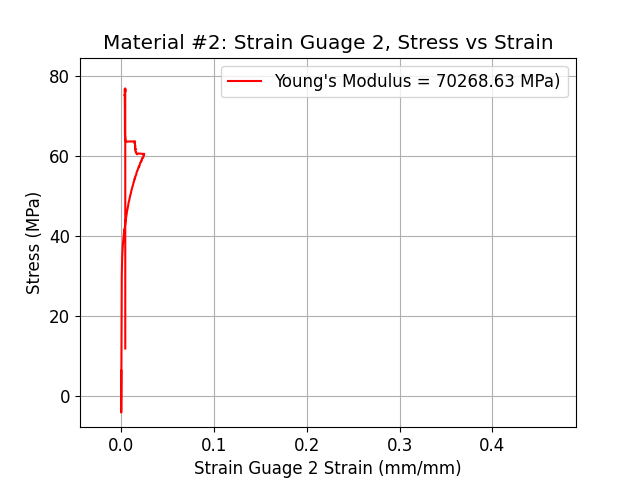
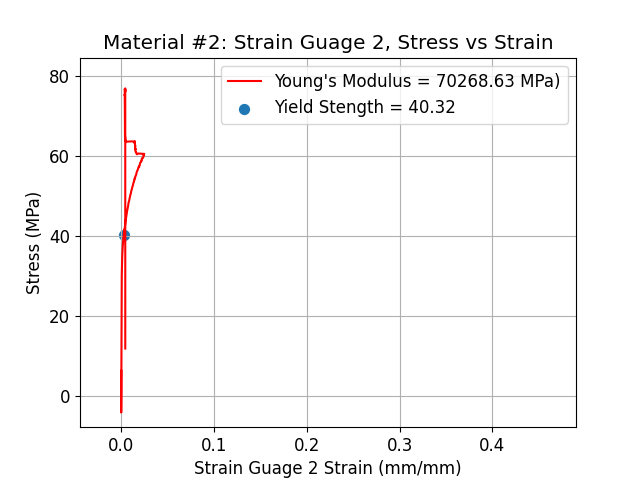
Added yield strength functionality

Changed region(s): [[0.4062, 0.1875, 0.7188, 0.25], [0.375, 0.2188, 0.4062, 0.25], [0.1875, 0.4688, 0.2188, 0.5]]

diff --git a/src/analysis.py b/src/analysis.py
@@ -78,7 +78,7 @@ def ModulusProcess(data: pd.DataFrame, test_num: np.int8):
     
     return modulus
 
-def YieldProcess(data: pd.DataFrame, test_num: np.int8, modulus: np.float64):
+def YieldProcess(data: pd.DataFrame, test_num: np.int8, modulus: np.array):
     '''
     Calculate the young's modulus of the sample.
 
@@ -88,21 +88,38 @@ def YieldProcess(data: pd.DataFrame, test_num: np.int8, modulus: np.float64):
         data from sensors
     test_num : np.int
         sample number
+    modulus : np.array
+        elastic modulus of the sample
 
     Returns:
     -----------   
-    modulus : np.int
-        elastic modulus for that sample
+    yield_strength : np.array
+        yield strenngth location and value for that sample
     '''
-    end_indices = [600, 70, 250, 550, 500] # region within which each graph is linear, determined observationally
+    end_indices = [675, 200, 500, 625, 600] # region within which each graph is linear, determined observationally
     
     end_ind = end_indices[test_num-1]
 
-    # print(data[['MTS_stress', 'Laser']][0:end_ind])
+    mod = modulus[0 if (test_num == 3) else 1]
+    strain_guage = data['Strain Guage 2'][0:end_ind]
+    strain_laser = data['Laser'][0:end_ind]
+    stress_measured = data['MTS_stress'][0:end_ind]
+    stress_offset_guage = [x*mod - mod*0.002 for x in strain_guage]
+    stress_offset_laser = [x*mod - mod*0.002 for x in strain_laser]
 
     if test_num == 3:
-        modulus, intercept = np.polyfit(data['Laser'][0:end_ind], data.MTS_stress[0:end_ind], deg=1)
+        plt.plot(strain_laser, stress_measured)
+        plt.plot(strain_laser, stress_offset_laser)
+
+        diff = abs(stress_measured - stress_offset_laser)
+        intersect_ind = list(diff).index(min(diff))
+        yield_strength = [strain_laser[intersect_ind], stress_measured[intersect_ind]]
     else:
-        modulus, intercept = np.polyfit(data['Strain Guage 2'][0:end_ind], data.MTS_stress[0:end_ind], deg=1)
+        plt.plot(strain_guage, stress_measured)
+        plt.plot(strain_guage, stress_offset_guage)
+
+        diff = abs(stress_measured - stress_offset_guage)
+        intersect_ind = list(diff).index(min(diff))
+        yield_strength = [strain_guage[intersect_ind], stress_measured[intersect_ind]]
     
-    return modulus
+    return yield_strength

diff --git a/src/graphing.py b/src/graphing.py
@@ -12,7 +12,7 @@ import pandas as pd
 import os
 
 
-def StrainGraph(data: pd.DataFrame, test_num: np.int8, sensor: np.array, modulus : np.float64, save: bool):
+def StrainGraph(data: pd.DataFrame, test_num: np.int8, sensor: np.array, modulus : np.array, yield_strength : np.array, save: bool):
     '''
     PLots the strain graphs.
 
@@ -26,6 +26,8 @@ def StrainGraph(data: pd.DataFrame, test_num: np.int8, sensor: np.array, modulus
         which sensors a plot must be made for
     modulus : np.float64
         elastic modulus of that material
+    yield_strength : np.array
+        yield strenngth location and value for that sample
     save : bool
         save graphs or not
     '''
@@ -43,18 +45,21 @@ def StrainGraph(data: pd.DataFrame, test_num: np.int8, sensor: np.array, modulus
     for s in sensor:
         print(" Generating " + str(s) + " strain plot..")
         plt.plot(data[s][0:end_ind], data.MTS_stress[0:end_ind], color = 'r')
+        if s in ['Laser', 'Strain Guage 2']:
+            plt.scatter(yield_strength[0], yield_strength[1], s=50)
+            mod = modulus[0 if (s == 'Laser') else 1]
+            plt.legend([f'Young\'s Modulus = {round(mod, 2)} MPa)', f'Yield Stength = {round(yield_strength[1], 2)}'])
+
+
         params = {'mathtext.default': 'regular' }          
         plt.rcParams.update(params)
         plt.rcParams.update({'font.size': 12})
         plt.title(f'Material #{test_num}: {str(s)}, Stress vs Strain')
         plt.xlabel(str(s) + ' Strain (mm/mm)')
         plt.ylabel('Stress (MPa)')
-        
-        mod = modulus[0 if (s == 'Laser') else 1]
-        plt.legend([f'Young\'s Modulus = {round(mod, 2)} MPa)'])
 
         # x = np.linspace(0, 1, 100)
-        # y = x*mod
+        # y = x*mod - mod*0.002
         # plt.plot(x, y)
 
         plt.grid()

diff --git a/src/main.py b/src/main.py
@@ -53,7 +53,9 @@ for test_num in range(1,6):
 
     modulus = ModulusProcess(parsed_data, test_num)
 
-    print(modulus)
+    yield_strength = YieldProcess(parsed_data, test_num, modulus)
+
+    print(yield_strength)
 
     # print(parsed_data)
     print("Analysis Complete...")
@@ -64,7 +66,7 @@ for test_num in range(1,6):
 
     sensor = ['MTS', 'Laser', 'Strain Guage 1', 'Strain Guage 2']
     save = True
-    StrainGraph(parsed_data, test_num, sensor, modulus, save)
+    StrainGraph(parsed_data, test_num, sensor, modulus, yield_strength, save)
     print("=========================================")
 
     # print("Saving Data CSVs...")
